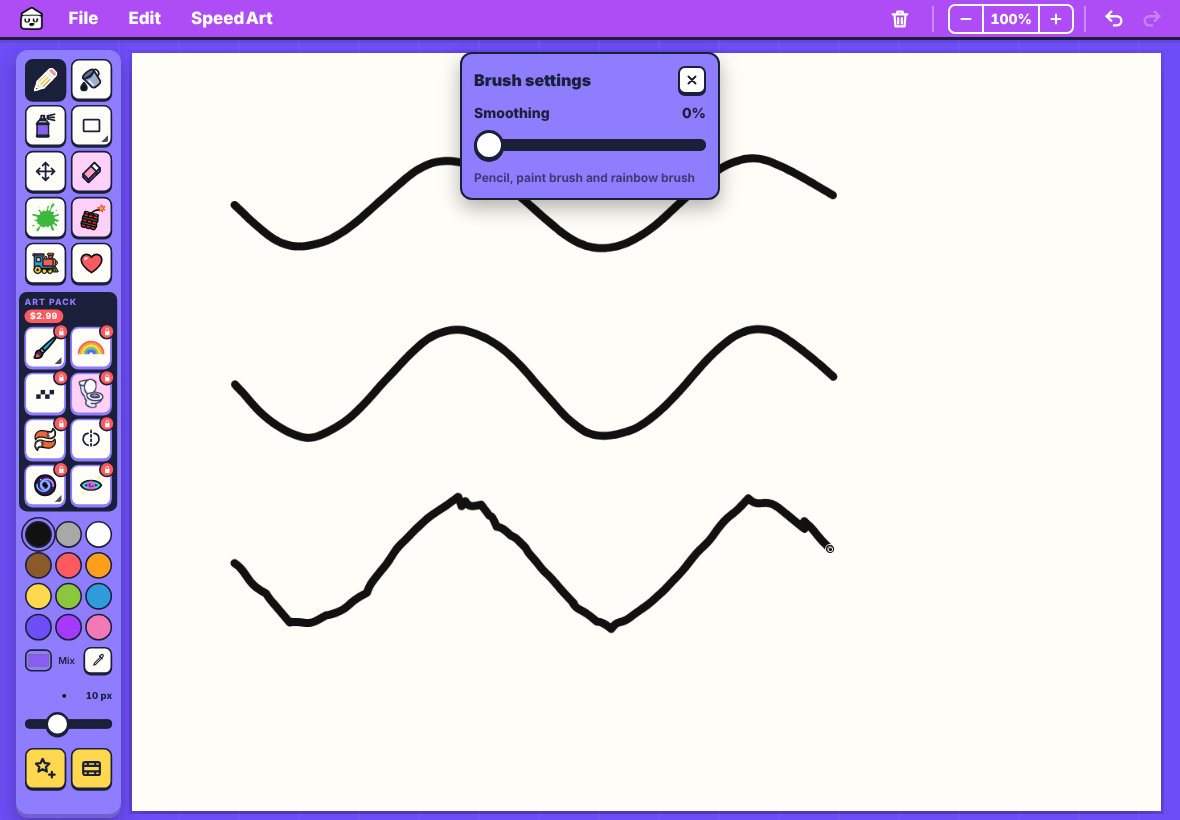
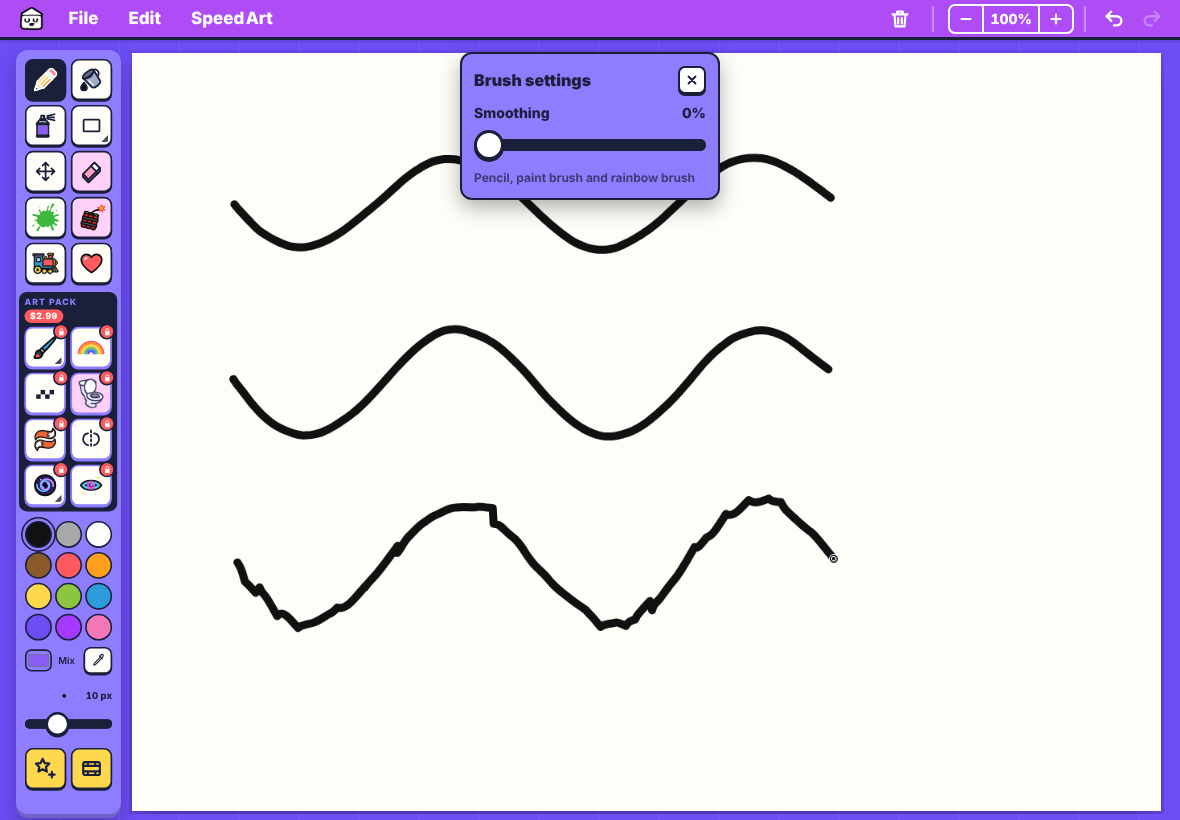
Paint brush: real bristle edges (fine hairs that run dry and break up), replaces the overlay fringe
Claude-Session: https://claude.ai/code/session_01QZ4DRegBmAdsTvPSvVEQXu

diff --git a/doodle-clubhouse-app/www/index.html b/doodle-clubhouse-app/www/index.html
@@ -3991,7 +3991,7 @@
       const a = (R() < .5 ? .62 : -.78) + (R() - .5) * .35;
       line(R() * S, R() * S, a, kind === 'core' ? 4 + R() * 9 : 7 + R() * 18, .5 + R() * 1.1, kind === 'core' ? .25 + R() * .4 : .5 + R() * .5);
     }
-    if (kind === 'fringe'){ for (let i = 0; i < 2600; i++) line(R() * S, R() * S, R() * Math.PI, .5 + R() * 2.2, .5 + R() * .9, .3 + R() * .5); return grainTiles[kind] = t; }   // bristle hairs + a little loose dust
+    if (kind === 'fringe') return grainTiles[kind] = t;   // the fringe is only bristle hairs
     const m = kind === 'rim' ? 7000 : 1800;
     for (let i = 0; i < m; i++) line(R() * S, R() * S, R() * Math.PI, .6 + R() * 1.6, .5 + R() * .8, .35 + R() * .5);
     return grainTiles[kind] = t;
@@ -4000,7 +4000,7 @@
   function brushTexDraw(g, pts, w, rb, ang, sc){
     const cw = g.canvas.width, ch = g.canvas.height;
     let x0 = 1e9, y0 = 1e9, x1 = -1e9, y1 = -1e9; for (const q of pts){ if (q.x < x0) x0 = q.x; if (q.y < y0) y0 = q.y; if (q.x > x1) x1 = q.x; if (q.y > y1) y1 = q.y; }
-    const pad = w * 2 + 8; x0 = Math.max(0, Math.floor(x0 - pad)); y0 = Math.max(0, Math.floor(y0 - pad)); x1 = Math.min(cw, Math.ceil(x1 + pad)); y1 = Math.min(ch, Math.ceil(y1 + pad));
+    const pad = w * 1.8 + 6; x0 = Math.max(0, Math.floor(x0 - pad)); y0 = Math.max(0, Math.floor(y0 - pad)); x1 = Math.min(cw, Math.ceil(x1 + pad)); y1 = Math.min(ch, Math.ceil(y1 + pad));
     if (x1 <= x0 || y1 <= y0) return;
     const layer = (i, width, kind, keep) => {
       let k = texK[i]; if (!k || k.width !== cw || k.height !== ch){ k = texK[i] = mk(cw, ch); }
@@ -4015,19 +4015,68 @@
       kg.globalCompositeOperation = 'source-over';
       return k;
     };
-    // hairs of the bristles poking out past the edge, the body with scratchy gaps, and a fuller middle
-    // two loose fringes, the outer one turned another way and fainter, so the edge looks fuzzy and uneven
-    const fr = layer(2, w * 1.32, 'fringe', true);
-    g.save(); g.globalAlpha = 1;
-    g.drawImage(fr, x0, y0, x1 - x0, y1 - y0, x0, y0, x1 - x0, y1 - y0);
-    g.restore();
-    { const a0 = ang; ang = (ang || 0) + 47; const fr2 = layer(2, w * 1.55, 'fringe', true); ang = a0;
-      g.save(); g.globalAlpha = .55; g.drawImage(fr2, x0, y0, x1 - x0, y1 - y0, x0, y0, x1 - x0, y1 - y0); g.restore(); }
-    const a = layer(0, w, 'rim'), b = layer(1, w * .62, 'core');
-    g.save(); g.globalAlpha = 1;
-    g.drawImage(a, x0, y0, x1 - x0, y1 - y0, x0, y0, x1 - x0, y1 - y0);
-    g.drawImage(b, x0, y0, x1 - x0, y1 - y0, x0, y0, x1 - x0, y1 - y0);
-    g.restore();
+    // a real bristle brush: a full middle, then ~22 separate hairs running along the stroke.
+    // The outer hairs run dry and skip in random places, so the edge itself is ragged (not a clean stroke with marks on it).
+    let k = texK[0]; if (!k || k.width !== cw || k.height !== ch){ k = texK[0] = mk(cw, ch); }
+    const kg = k.getContext('2d'); kg.setTransform(1, 0, 0, 1, 0, 0); kg.globalAlpha = 1; kg.globalCompositeOperation = 'source-over'; kg.clearRect(x0, y0, x1 - x0, y1 - y0);
+    kg.save(); kg.beginPath(); kg.rect(x0, y0, x1 - x0, y1 - y0); kg.clip();
+    kg.lineCap = 'round'; kg.lineJoin = 'round'; kg.strokeStyle = g.strokeStyle;
+    pencilDraw(kg, pts, w * .52, rb);
+    const D = brushDense(pts), n = D.length;
+    if (n > 1){
+      const seed = Math.floor((ang || 0) * 977) + 13, scl = sc || 1;
+      const hash = (a, b) => { const v = Math.sin(a * 127.1 + b * 311.7 + seed * 74.7) * 43758.5453; return v - Math.floor(v); };
+      const NB = Math.max(18, Math.min(90, Math.round(w * 1.3)));   // more hairs on a bigger brush
+      for (let j = 0; j < NB; j++){
+        const r1 = hash(j, .5), r2 = hash(j, 1.5), r3 = hash(j, 2.5);
+        const o = (j / (NB - 1) - .5) * 1.16 + (r1 - .5) * (1.16 / NB), ao = Math.abs(o);   // where the hair sits across the brush
+        const hw = ao > .3 ? (.7 + r2 * 1.8) * scl : w * (.04 + r2 * .05);               // edge hairs are fine (a pixel or two)
+        const thr = ao > .52 ? .66 : ao > .44 ? .5 : ao > .36 ? .32 : ao > .28 ? .14 : .03;  // and run dry more often
+        const lam = (2.5 + r3 * 10) * scl;                                                // short dry/wet patches: a fuzzy, broken edge
+        const noise = sx => { const u = sx / lam, i = Math.floor(u), f = u - i, e = f * f * (3 - 2 * f); return hash(j + 9, i) * (1 - e) + hash(j + 9, i + 1) * e; };
+        kg.globalAlpha = ao > .36 ? .45 + hash(j, 3.5) * .55 : 1;   // some outer hairs carry less paint
+        let open = false, lw = -1;
+        for (let i = 0; i < n - 1; i++){
+          const p = D[i], q = D[i + 1];
+          if (noise((p.s + q.s) / 2) < thr){ if (open){ kg.stroke(); open = false; } continue; }
+          const wd = Math.max(.5, Math.round((ao > .3 ? hw * Math.min(1.3, (p.k + q.k) / 2) : hw * (p.k + q.k) / 2) * 2) / 2);
+          const ox1 = p.nx * o * w * p.k, oy1 = p.ny * o * w * p.k, ox2 = q.nx * o * w * q.k, oy2 = q.ny * o * w * q.k;
+          if (!open || wd !== lw){ if (open) kg.stroke(); kg.beginPath(); kg.lineWidth = wd; lw = wd; kg.moveTo(p.x + ox1, p.y + oy1); open = true; }
+          kg.lineTo(q.x + ox2, q.y + oy2);
+        }
+        if (open) kg.stroke();
+      }
+      kg.globalAlpha = 1;
+    }
+    kg.restore();
+    // a fine dry grain over it all
+    kg.globalCompositeOperation = 'destination-out';
+    const pat = kg.createPattern(grainTile('core'), 'repeat');
+    try { pat.setTransform(new DOMMatrix().rotate(ang || 0).scale(sc || 1)); } catch {}
+    kg.fillStyle = pat; kg.fillRect(x0, y0, x1 - x0, y1 - y0); kg.globalCompositeOperation = 'source-over';
+    g.save(); g.globalAlpha = 1; g.drawImage(k, x0, y0, x1 - x0, y1 - y0, x0, y0, x1 - x0, y1 - y0); g.restore();
+  }
+  // the stroke's centre line as small even steps (same curve the pencil draws), with direction and distance along it
+  function brushDense(pts){
+    const P = pencilSoften(pts), K = q => q.k === undefined ? 1 : q.k, out = [];
+    const add = q => { const l = out[out.length - 1]; if (l && Math.hypot(q.x - l.x, q.y - l.y) < 1.5) return; out.push({ x: q.x, y: q.y, k: q.k, s: l ? l.s + Math.hypot(q.x - l.x, q.y - l.y) : 0 }); };
+    if (P.length === 1){ add({ x: P[0].x - .4, y: P[0].y, k: K(P[0]) }); out.push({ x: P[0].x + .4, y: P[0].y, k: K(P[0]), s: .8 }); }
+    else {
+      let P0 = { x: P[0].x, y: P[0].y, k: K(P[0]) }; add(P0);
+      for (let i = 1; i < P.length - 1; i++){
+        const c = P[i], nn = P[i + 1], M = { x: (c.x + nn.x) / 2, y: (c.y + nn.y) / 2, k: (K(c) + K(nn)) / 2 };
+        const steps = Math.max(2, Math.ceil((Math.hypot(c.x - P0.x, c.y - P0.y) + Math.hypot(M.x - c.x, M.y - c.y)) / 2));
+        for (let j = 1; j <= steps; j++){ const t = j / steps, u = 1 - t;
+          add({ x: u * u * P0.x + 2 * u * t * c.x + t * t * M.x, y: u * u * P0.y + 2 * u * t * c.y + t * t * M.y, k: u * u * P0.k + 2 * u * t * K(c) + t * t * M.k }); }
+        P0 = M;
+      }
+      const L = P[P.length - 1]; add({ x: L.x, y: L.y, k: K(L) });
+    }
+    for (let i = 0; i < out.length; i++){
+      const a = out[Math.max(0, i - 2)], b = out[Math.min(out.length - 1, i + 2)];
+      let dx = b.x - a.x, dy = b.y - a.y, d = Math.hypot(dx, dy) || 1; out[i].nx = -dy / d; out[i].ny = dx / d;
+    }
+    return out;
   }
   function pencilInk(g){
     g.lineCap = 'round'; g.lineJoin = 'round'; g.lineWidth = size; g.strokeStyle = color;

diff --git a/index.html b/index.html
@@ -3991,7 +3991,7 @@
       const a = (R() < .5 ? .62 : -.78) + (R() - .5) * .35;
       line(R() * S, R() * S, a, kind === 'core' ? 4 + R() * 9 : 7 + R() * 18, .5 + R() * 1.1, kind === 'core' ? .25 + R() * .4 : .5 + R() * .5);
     }
-    if (kind === 'fringe'){ for (let i = 0; i < 2600; i++) line(R() * S, R() * S, R() * Math.PI, .5 + R() * 2.2, .5 + R() * .9, .3 + R() * .5); return grainTiles[kind] = t; }   // bristle hairs + a little loose dust
+    if (kind === 'fringe') return grainTiles[kind] = t;   // the fringe is only bristle hairs
     const m = kind === 'rim' ? 7000 : 1800;
     for (let i = 0; i < m; i++) line(R() * S, R() * S, R() * Math.PI, .6 + R() * 1.6, .5 + R() * .8, .35 + R() * .5);
     return grainTiles[kind] = t;
@@ -4000,7 +4000,7 @@
   function brushTexDraw(g, pts, w, rb, ang, sc){
     const cw = g.canvas.width, ch = g.canvas.height;
     let x0 = 1e9, y0 = 1e9, x1 = -1e9, y1 = -1e9; for (const q of pts){ if (q.x < x0) x0 = q.x; if (q.y < y0) y0 = q.y; if (q.x > x1) x1 = q.x; if (q.y > y1) y1 = q.y; }
-    const pad = w * 2 + 8; x0 = Math.max(0, Math.floor(x0 - pad)); y0 = Math.max(0, Math.floor(y0 - pad)); x1 = Math.min(cw, Math.ceil(x1 + pad)); y1 = Math.min(ch, Math.ceil(y1 + pad));
+    const pad = w * 1.8 + 6; x0 = Math.max(0, Math.floor(x0 - pad)); y0 = Math.max(0, Math.floor(y0 - pad)); x1 = Math.min(cw, Math.ceil(x1 + pad)); y1 = Math.min(ch, Math.ceil(y1 + pad));
     if (x1 <= x0 || y1 <= y0) return;
     const layer = (i, width, kind, keep) => {
       let k = texK[i]; if (!k || k.width !== cw || k.height !== ch){ k = texK[i] = mk(cw, ch); }
@@ -4015,19 +4015,68 @@
       kg.globalCompositeOperation = 'source-over';
       return k;
     };
-    // hairs of the bristles poking out past the edge, the body with scratchy gaps, and a fuller middle
-    // two loose fringes, the outer one turned another way and fainter, so the edge looks fuzzy and uneven
-    const fr = layer(2, w * 1.32, 'fringe', true);
-    g.save(); g.globalAlpha = 1;
-    g.drawImage(fr, x0, y0, x1 - x0, y1 - y0, x0, y0, x1 - x0, y1 - y0);
-    g.restore();
-    { const a0 = ang; ang = (ang || 0) + 47; const fr2 = layer(2, w * 1.55, 'fringe', true); ang = a0;
-      g.save(); g.globalAlpha = .55; g.drawImage(fr2, x0, y0, x1 - x0, y1 - y0, x0, y0, x1 - x0, y1 - y0); g.restore(); }
-    const a = layer(0, w, 'rim'), b = layer(1, w * .62, 'core');
-    g.save(); g.globalAlpha = 1;
-    g.drawImage(a, x0, y0, x1 - x0, y1 - y0, x0, y0, x1 - x0, y1 - y0);
-    g.drawImage(b, x0, y0, x1 - x0, y1 - y0, x0, y0, x1 - x0, y1 - y0);
-    g.restore();
+    // a real bristle brush: a full middle, then ~22 separate hairs running along the stroke.
+    // The outer hairs run dry and skip in random places, so the edge itself is ragged (not a clean stroke with marks on it).
+    let k = texK[0]; if (!k || k.width !== cw || k.height !== ch){ k = texK[0] = mk(cw, ch); }
+    const kg = k.getContext('2d'); kg.setTransform(1, 0, 0, 1, 0, 0); kg.globalAlpha = 1; kg.globalCompositeOperation = 'source-over'; kg.clearRect(x0, y0, x1 - x0, y1 - y0);
+    kg.save(); kg.beginPath(); kg.rect(x0, y0, x1 - x0, y1 - y0); kg.clip();
+    kg.lineCap = 'round'; kg.lineJoin = 'round'; kg.strokeStyle = g.strokeStyle;
+    pencilDraw(kg, pts, w * .52, rb);
+    const D = brushDense(pts), n = D.length;
+    if (n > 1){
+      const seed = Math.floor((ang || 0) * 977) + 13, scl = sc || 1;
+      const hash = (a, b) => { const v = Math.sin(a * 127.1 + b * 311.7 + seed * 74.7) * 43758.5453; return v - Math.floor(v); };
+      const NB = Math.max(18, Math.min(90, Math.round(w * 1.3)));   // more hairs on a bigger brush
+      for (let j = 0; j < NB; j++){
+        const r1 = hash(j, .5), r2 = hash(j, 1.5), r3 = hash(j, 2.5);
+        const o = (j / (NB - 1) - .5) * 1.16 + (r1 - .5) * (1.16 / NB), ao = Math.abs(o);   // where the hair sits across the brush
+        const hw = ao > .3 ? (.7 + r2 * 1.8) * scl : w * (.04 + r2 * .05);               // edge hairs are fine (a pixel or two)
+        const thr = ao > .52 ? .66 : ao > .44 ? .5 : ao > .36 ? .32 : ao > .28 ? .14 : .03;  // and run dry more often
+        const lam = (2.5 + r3 * 10) * scl;                                                // short dry/wet patches: a fuzzy, broken edge
+        const noise = sx => { const u = sx / lam, i = Math.floor(u), f = u - i, e = f * f * (3 - 2 * f); return hash(j + 9, i) * (1 - e) + hash(j + 9, i + 1) * e; };
+        kg.globalAlpha = ao > .36 ? .45 + hash(j, 3.5) * .55 : 1;   // some outer hairs carry less paint
+        let open = false, lw = -1;
+        for (let i = 0; i < n - 1; i++){
+          const p = D[i], q = D[i + 1];
+          if (noise((p.s + q.s) / 2) < thr){ if (open){ kg.stroke(); open = false; } continue; }
+          const wd = Math.max(.5, Math.round((ao > .3 ? hw * Math.min(1.3, (p.k + q.k) / 2) : hw * (p.k + q.k) / 2) * 2) / 2);
+          const ox1 = p.nx * o * w * p.k, oy1 = p.ny * o * w * p.k, ox2 = q.nx * o * w * q.k, oy2 = q.ny * o * w * q.k;
+          if (!open || wd !== lw){ if (open) kg.stroke(); kg.beginPath(); kg.lineWidth = wd; lw = wd; kg.moveTo(p.x + ox1, p.y + oy1); open = true; }
+          kg.lineTo(q.x + ox2, q.y + oy2);
+        }
+        if (open) kg.stroke();
+      }
+      kg.globalAlpha = 1;
+    }
+    kg.restore();
+    // a fine dry grain over it all
+    kg.globalCompositeOperation = 'destination-out';
+    const pat = kg.createPattern(grainTile('core'), 'repeat');
+    try { pat.setTransform(new DOMMatrix().rotate(ang || 0).scale(sc || 1)); } catch {}
+    kg.fillStyle = pat; kg.fillRect(x0, y0, x1 - x0, y1 - y0); kg.globalCompositeOperation = 'source-over';
+    g.save(); g.globalAlpha = 1; g.drawImage(k, x0, y0, x1 - x0, y1 - y0, x0, y0, x1 - x0, y1 - y0); g.restore();
+  }
+  // the stroke's centre line as small even steps (same curve the pencil draws), with direction and distance along it
+  function brushDense(pts){
+    const P = pencilSoften(pts), K = q => q.k === undefined ? 1 : q.k, out = [];
+    const add = q => { const l = out[out.length - 1]; if (l && Math.hypot(q.x - l.x, q.y - l.y) < 1.5) return; out.push({ x: q.x, y: q.y, k: q.k, s: l ? l.s + Math.hypot(q.x - l.x, q.y - l.y) : 0 }); };
+    if (P.length === 1){ add({ x: P[0].x - .4, y: P[0].y, k: K(P[0]) }); out.push({ x: P[0].x + .4, y: P[0].y, k: K(P[0]), s: .8 }); }
+    else {
+      let P0 = { x: P[0].x, y: P[0].y, k: K(P[0]) }; add(P0);
+      for (let i = 1; i < P.length - 1; i++){
+        const c = P[i], nn = P[i + 1], M = { x: (c.x + nn.x) / 2, y: (c.y + nn.y) / 2, k: (K(c) + K(nn)) / 2 };
+        const steps = Math.max(2, Math.ceil((Math.hypot(c.x - P0.x, c.y - P0.y) + Math.hypot(M.x - c.x, M.y - c.y)) / 2));
+        for (let j = 1; j <= steps; j++){ const t = j / steps, u = 1 - t;
+          add({ x: u * u * P0.x + 2 * u * t * c.x + t * t * M.x, y: u * u * P0.y + 2 * u * t * c.y + t * t * M.y, k: u * u * P0.k + 2 * u * t * K(c) + t * t * M.k }); }
+        P0 = M;
+      }
+      const L = P[P.length - 1]; add({ x: L.x, y: L.y, k: K(L) });
+    }
+    for (let i = 0; i < out.length; i++){
+      const a = out[Math.max(0, i - 2)], b = out[Math.min(out.length - 1, i + 2)];
+      let dx = b.x - a.x, dy = b.y - a.y, d = Math.hypot(dx, dy) || 1; out[i].nx = -dy / d; out[i].ny = dx / d;
+    }
+    return out;
   }
   function pencilInk(g){
     g.lineCap = 'round'; g.lineJoin = 'round'; g.lineWidth = size; g.strokeStyle = color;
